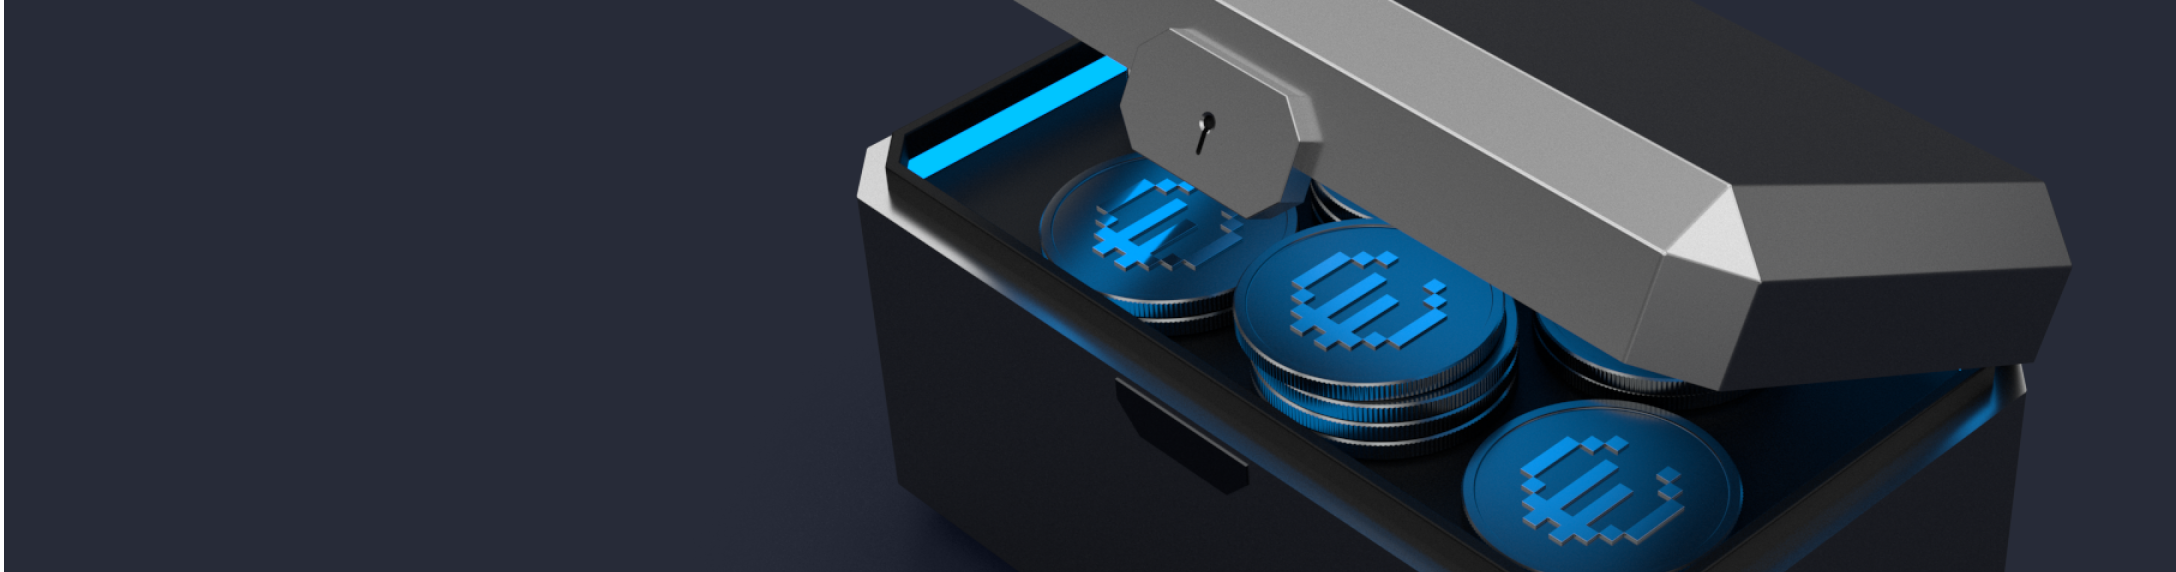
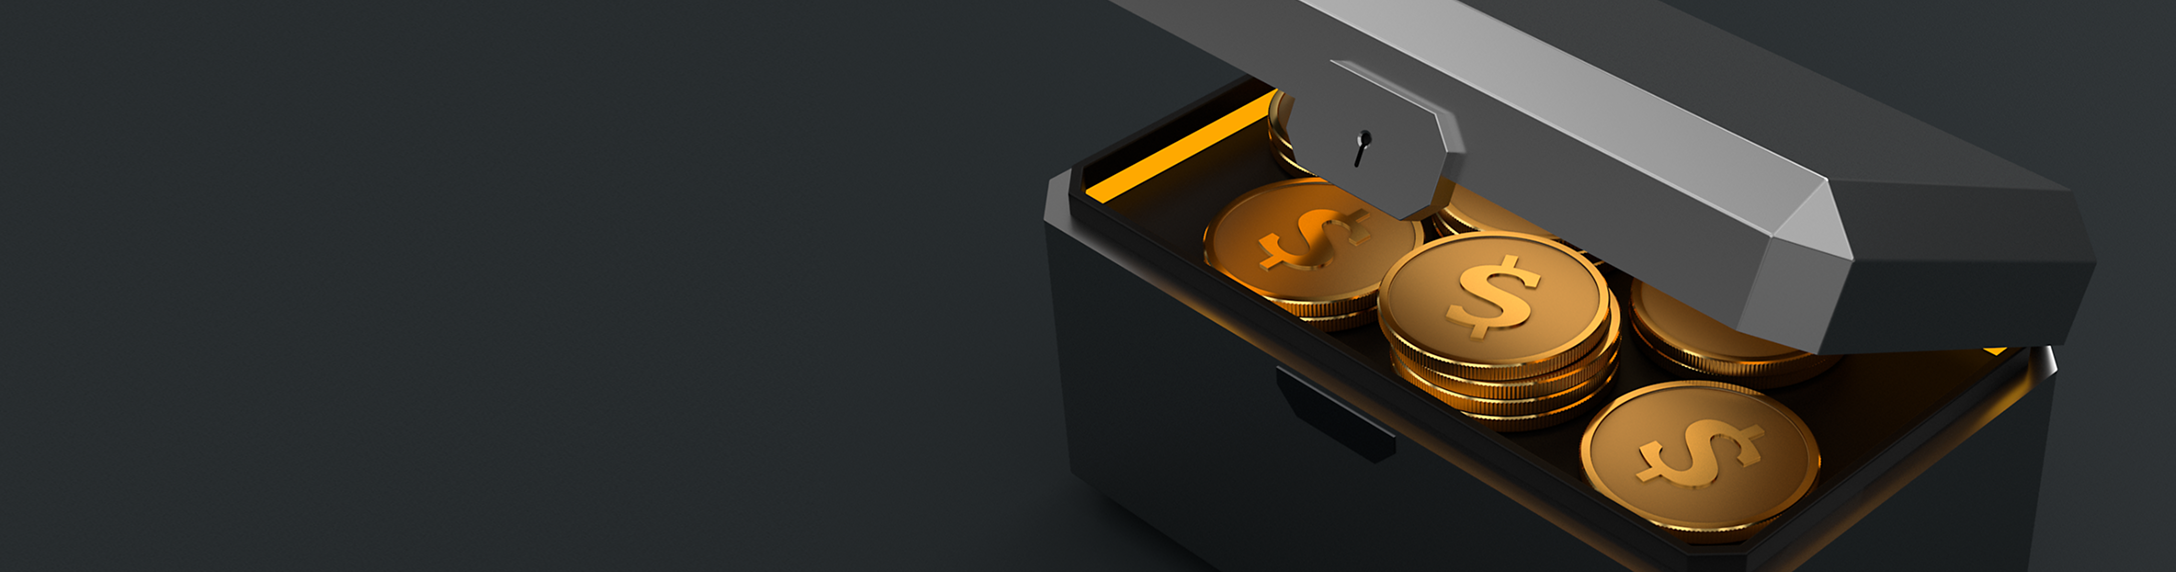
[NO-TASK] rebrand referral center UI (#6)

Changed region(s): [[0.375, 0.0, 0.9688, 1.0]]

diff --git a/tailwind.config.js b/tailwind.config.js
@@ -9,7 +9,7 @@ module.exports = {
 	],
 	theme: {
 		fontFamily: {
-			sans: ["Inter", "Helvetica", "ui-sans-serif"],
+			sans: ["Avenir", "Helvetica", "ui-sans-serif"],
 		},
 		screens: {
 			xs: "480px",
@@ -27,40 +27,27 @@ module.exports = {
 			minHeight: {
 				content: "calc(100vh - 230px)",
 			},
-			spacing: {
-				"spacing-10": "40px",
-			},
 			transitionProperty: {
 				height: "height",
 			},
 			colors: {
-				gray: {
-					"palette-75": "#6d6d6d",
-				},
-				neutral: {
-					"palette-n-78": "#656565",
-				},
 				layout: {
 					primary: "#f5f6f9",
-					secondary: "#092f62",
+					secondary: "#F57F00",
 					footer: "#272B38",
 				},
 				menu: {
 					default: {
-						text: "var(--Gray-palette-95, #272b37)",
-						bg: "transparent",
+						text: "#272b37",
+						bg: "#ffffff",
 					},
 					hover: {
-						text: "var(--Gray-palette-95, #272b37)",
-						bg: "var(--Gray-palette-5, #F6F6F6)",
+						text: "#1d2029",
+						bg: "#f5f6f9",
 					},
 					active: {
-						text: "var(--Neutral-palette-n100, #131313)",
-						bg: "var(--Gray-palette-5, #F6F6F6)",
-					},
-					disabled: {
-						text: "var(--Gray-palette-40, #b3b3b3)",
-						bg: "transparent",
+						text: "#1d2029",
+						bg: "#f0f1f5",
 					},
 					separator: "#e9ebf0",
 					back: "#FFFFFF",
@@ -73,7 +60,7 @@ module.exports = {
 				card: {
 					body: {
 						primary: "#ffffff",
-						secondary: "#092f62",
+						secondary: "#F57F00",
 						seperator: "#1e293b",
 					},
 					content: {
@@ -99,61 +86,61 @@ module.exports = {
 					label: "#5c637b",
 					title: "#43495c",
 					disabled: "#5d647b",
-					labelButton: "#065DC1",
+					labelButton: "#F57F00",
 				},
 				borders: {
 					primary: '#e9ebf0',
 					secondary: '#ced0da',
 					tertiary: '#8b91a7',
 					input: '#adb2c1',
-					focus: '#3d89f4',
+					focus: '#F57F00',
 					divider: '#1e293b',
 					dividerLight: '#eaebf0',
 				},
 				input: {
-					border: "#adb2c1",
-					placeholder: "#bdc1cd",
-					primary: "#1d2029",
+					border: "#B7B7B7",
+					placeholder: "#C5C5C5",
+					primary: "#131313",
 					label: "#adb2c1",
-					bg: "#f5f6f9",
-					borderFocus: "#3d89f4",
-					borderHover: "#5D647B",
-					bgNotEditable: "#F5F6F9",
+					bg: "#ffffff",
+					borderFocus: "#FFA33B",
+					borderHover: "#6D6D6D",
+					bgNotEditable: "#F6F6F6",
 				},
 				button: {
 					max: {
-						bg: "#e4f0fb",
-						text: "#092f62",
-						hover: "#CCE4FF",
-						disabledBg: "#E9EBF0",
-						disabledText: "#ADB2C2",
+						bg: "#FDF2E2",
+						text: "#FFA33B",
+						hover: "#FDF2E2",
+						disabledBg: "#ECECEC",
+						disabledText: "#C5C5C5",
 					},
 					primary: {
 						disabled: {
-							text: "var(--Gray-palette-40, #C5C5C5)",
-							bg: "var(--Gray-palette-10, #ECECEC)",
+							text: "#C5C5C5",
+							bg: "#ECECEC",
 						},
 						default: {
-							text: "var(--Gray-palette-White, #FFF)",
-							bg: "var(--Brand-colors-Citrus-orange, #F7911A)",
+							text: "#ffffff",
+							bg: "#F7911A",
 						},
 						hover: {
-							text: "var(--Gray-palette-White, #FFF)",
-							bg: "var(--Brand-colors-Juice-orange, #F57F00)",
+							text: "#ffffff",
+							bg: "#F57F00",
 						},
 					},
 					secondary: {
 						disabled: {
-							text: "var(--Gray-palette-40, #C5C5C5)",
-							bg: "var(--Gray-palette-5, #F6F6F6)",
+							text: "#ADB2C2",
+							bg: "##F5F6F9",
 						},
 						default: {
-							text: "var(--Gray-palette-90, #424242)",
-							bg: "var(--Gray-palette-7, #F1F1F1)",
+							text: "#272B38",
+							bg: "#F5F6F9",
 						},
 						hover: {
-							text: "var(--Gray-palette-90, #424242)",
-							bg: "var(--Gray-palette-15, #E7E7E7)",
+							text: "#272B38",
+							bg: "#EAEBF0",
 						},
 					},
 					text:{
@@ -161,7 +148,7 @@ module.exports = {
 							text: "#272B38",
 						},
 						hover: {
-							text: "#F7911A",
+							text: "#F57F00",
 						},
 						disabled: {
 							text: "#ADB2C2",
@@ -169,7 +156,7 @@ module.exports = {
 					},
 					textGroup: {
 						primary: {
-							text: "#065DC1",
+							text: "#F57F00",
 						},
 						secondary: {
 							text: "#8B92A8",
@@ -193,6 +180,9 @@ module.exports = {
 						secondary: "#F0F1F5",
 						hover: "#F0F1F5",
 					},
+				},
+				orangePalette: {
+					"pale-orange": "var(--Orange-palette-Pale-orange, #FDF2E2)",
 				},
 			},
 			boxShadow: {

diff --git a/styles/datepicker.css b/styles/datepicker.css
@@ -34,7 +34,7 @@
 .react-datepicker {
 	font-family: "Inter", system-ui, sans-serif;
 	font-size: 0.8rem;
-	background-color: rgb(55 65 81);
+	background-color: #505050;
 	color: #000;
 	border-radius: 0.3rem;
 	display: inline-block;
@@ -57,7 +57,7 @@
 }
 .react-datepicker__header {
 	text-align: center;
-	background-color: rgb(31 41 55);
+	background-color: #2d2d2d;
 	border-bottom: 1px solid #aeaeae;
 	border-top-left-radius: 0.3rem;
 	padding: 8px 0;
@@ -186,6 +186,7 @@
 .react-datepicker__month {
 	margin: 0.4rem;
 	text-align: center;
+	background-color: #505050;
 }
 .react-datepicker__month .react-datepicker__month-text,
 .react-datepicker__month .react-datepicker__quarter-text {
@@ -383,7 +384,7 @@
 .react-datepicker__quarter-text:hover,
 .react-datepicker__year-text:hover {
 	border-radius: 0.3rem;
-	background-color: rgb(75 85 99);
+	background-color: #6d6d6d;
 }
 .react-datepicker__day--today,
 .react-datepicker__month-text--today,
@@ -469,7 +470,7 @@
 .react-datepicker__year-text--in-selecting-range,
 .react-datepicker__year-text--in-range {
 	border-radius: 0.3rem;
-	background-color: #216ba5;
+	background-color: #F57F00;
 	color: #fff;
 }
 .react-datepicker__day--selected:hover,
@@ -484,7 +485,7 @@
 .react-datepicker__year-text--selected:hover,
 .react-datepicker__year-text--in-selecting-range:hover,
 .react-datepicker__year-text--in-range:hover {
-	background-color: #1d5d90;
+	background-color: #6D6D6D;
 }
 .react-datepicker__day--keyboard-selected,
 .react-datepicker__month-text--keyboard-selected,
@@ -498,7 +499,7 @@
 .react-datepicker__month-text--keyboard-selected:hover,
 .react-datepicker__quarter-text--keyboard-selected:hover,
 .react-datepicker__year-text--keyboard-selected:hover {
-	background-color: #1d5d90;
+	background-color: #6D6D6D;
 }
 .react-datepicker__day--in-selecting-range:not(
 		.react-datepicker__day--in-range,

diff --git a/components/PageReferrals/ReferralCenterSection.tsx b/components/PageReferrals/ReferralCenterSection.tsx
@@ -5,8 +5,8 @@ import { ReferralsStats } from "./ReferralsStats";
 
 const ExplanationItem = ({ icon, title, description }: { icon: string; title: string; description: string }) => (
 	<div className="max-w-[28rem] justify-start items-start gap-3 flex">
-		<div className="w-10 h-10 bg-[#f2f7fd] rounded-full flex justify-center items-center">
-			<Image src={icon} width={20} height={20} alt={title} />
+		<div className="w-10 h-10 bg-orangePalette-pale-orange rounded-full flex justify-center items-center">
+			<Image src={icon} width={28} height={28} alt={title} className="w-6 h-6 sm:w-7 sm:h-7" />
 		</div>
 		<div className="grow shrink basis-0 flex-col justify-center items-start">
 			<div className="self-stretch text-base font-extrabold leading-tight">{title}</div>
@@ -26,7 +26,7 @@ export const ReferralCenterSection = () => {
 					<div className="self-stretch flex-col justify-start items-start gap-5 inline-flex sm:w-1/2">
 						<div className="flex-col justify-start items-start gap-3 flex">
 							<div className="w-8 h-8 sm:w-11 sm:h-11 bg-borders-primary rounded-full flex justify-center items-center">
-								<Image src="/icons/chest.svg" width={28} height={28} alt="Chest" className="w-5 h-5 sm:w-6 sm:h-6" />
+							  <Image src="/icons/chest.svg" width={42} height={42} alt="Chest" />
 							</div>
 							<div className="text-text-primary text-2xl sm:text-4xl font-black !leading-none">
 								{t("referrals.referral_center")}

diff --git a/components/Input/TextInputOutlined.tsx b/components/Input/TextInputOutlined.tsx
@@ -12,7 +12,7 @@ export const TextInputOutlined = ({ className, placeholder, value, onChange }: T
 
 	return (
 		<div
-			className={`p-2 px-3 sm:p-3 rounded-lg border-1 border-transparent relative flex-col justify-center items-start gap-2 flex before:absolute before:inset-0 before:rounded-xl before:border before:pointer-events-none before:transition-colors before:duration-200 ${
+		    className={`p-2 px-3 sm:p-3 rounded-lg border-1 border-transparent relative flex-col justify-center items-start gap-2 flex before:absolute before:inset-0 before:rounded-xl before:border before:pointer-events-none before:transition-colors before:duration-200 ${
 				isFocused ? "before:border-2 before:border-input-borderFocus" : "before:border-input-border hover:before:border-input-borderHover"
 			} ${className}`}
 		>

diff --git a/components/PageSavings/SavingsInteractionSection.tsx b/components/PageSavings/SavingsInteractionSection.tsx
@@ -229,7 +229,7 @@ export default function SavingsInteractionSection() {
 		<>
 			<div className="w-full self-stretch justify-center items-center gap-1.5 inline-flex flex-col">
 				<div className="text-text-title text-center text-lg sm:text-xl font-black ">{t("savings.earn_yield_on_your_d_euro")}</div>
-				<div className="py-1 px-3 rounded-lg bg-[#E4F0FC] text-[#272B38] flex flex-row items-center gap-x-2 text-sm leading-[0.875rem]">
+				<div className="py-1 px-3 rounded-lg bg-[#FDF2E2] text-[#272B38] flex flex-row items-center gap-x-2 text-sm leading-[0.875rem]">
 					<span className="font-[400]">{t("savings.savings_rate")} (APR)</span>
 					<span className="font-extrabold">{rate !== undefined ? `${rate / 10_000}%` : "-"}</span>
 				</div>

diff --git a/components/PageEquity/EquityNativePoolShareDetailsCard.tsx b/components/PageEquity/EquityNativePoolShareDetailsCard.tsx
@@ -77,7 +77,7 @@ export default function EquityNativePoolShareDetailsCard() {
 						options={{
 							theme: {
 								monochrome: {
-									color: "#0D4E9C",
+									color: "#F57F00",
 									enabled: true,
 								},
 							},
@@ -123,13 +123,13 @@ export default function EquityNativePoolShareDetailsCard() {
 								max: maxPrice * 2,
 							},
 							fill: {
-								colors: ["#0F80F099"],
+								colors: ["#F57F0099"],
 								type: "gradient",
 								gradient: {
 									type: "vertical",
 									opacityFrom: 1,
 									opacityTo: 0.95,
-									gradientToColors: ["#F5F6F9"],
+									gradientToColors: ["#FDF2E2"],
 								},
 							},
 						}}

diff --git a/pages/referrals.tsx b/pages/referrals.tsx
@@ -7,6 +7,7 @@ import BonusHistoryTable from "@components/PageReferrals/BonusHistoryTable";
 import { useTranslation } from "next-i18next";
 import { serverSideTranslations } from "next-i18next/serverSideTranslations";
 import Leaderboard from "@components/PageReferrals/Leaderboard";
+import { TOKEN_SYMBOL } from "@utils";
 
 export default function Referrals() {
 	const { t } = useTranslation();
@@ -21,7 +22,7 @@ export default function Referrals() {
 	return (
 		<>
 			<Head>
-				<title>dEURO - {t("referrals.referrals")}</title>
+				<title>{TOKEN_SYMBOL} - {t("referrals.referrals")}</title>
 			</Head>
 
 			<div className="md:mt-8 flex flex-col gap-6 sm:gap-12">

diff --git a/components/PageSavings/SavingsHistoryCard.tsx b/components/PageSavings/SavingsHistoryCard.tsx
@@ -90,7 +90,7 @@ export default function SavingsHistoryCard() {
 						options={{
 							theme: {
 								monochrome: {
-									color: "#0D4E9C",
+									color: "#F57F00",
 									enabled: true,
 								},
 							},
@@ -136,13 +136,13 @@ export default function SavingsHistoryCard() {
 								max: maxPrice * 2,
 							},
 							fill: {
-								colors: ["#0F80F099"],
+								colors: ["#F57F0099"],
 								type: "gradient",
 								gradient: {
 									type: "vertical",
 									opacityFrom: 1,
 									opacityTo: 0.95,
-									gradientToColors: ["#F5F6F9"],
+									gradientToColors: ["#FDF2E2"],
 								},
 							},
 						}}

diff --git a/components/Navbar/index.tsx b/components/Navbar/index.tsx
@@ -43,7 +43,7 @@ export default function Navbar() {
 	return (
 		<div className="fixed top-0 left-0 right-0 z-20 bg-white border-b border-menu-separator bg-menu-back backdrop-blur">
 			<div className="flex justify-center">
-				<header className="flex w-full max-w-[1440px] h-16 px-spacing-10 justify-between items-center shrink-0">
+				<header className="flex w-full max-w-[1440px] px-5 h-16 px-spacing-10 justify-between items-center shrink-0">
 					<div className="h-9 justify-start items-center gap-6 inline-flex">
 						<Link className="w-[120px] flex items-center justify-center" href={CONFIG.landing}>
 							<div className="relative">

diff --git a/components/PageMint/CollateralManageSection.tsx b/components/PageMint/CollateralManageSection.tsx
@@ -338,7 +338,7 @@ export const CollateralManageSection = () => {
 					/>
 					{error && <div className="ml-1 text-text-warning text-sm">{error}</div>}
 				</div>
-				<div className="w-full mt-1.5 px-4 py-2 rounded-xl bg-[#E4F0FC] flex flex-row justify-between items-center text-base font-extrabold text-[#272B38]">
+				<div className="w-full mt-1.5 px-4 py-2 rounded-xl bg-[#FDF2E2] flex flex-row justify-between items-center text-base font-extrabold text-[#272B38]">
 					<span>{t("mint.collateralization")}</span>
 					<span>{collateralizationPercentage} %</span>
 				</div>

diff --git a/components/PageMint/BorrowedManageSection.tsx b/components/PageMint/BorrowedManageSection.tsx
@@ -376,7 +376,7 @@ export const BorrowedManageSection = () => {
 					/>
 					{error && <div className="ml-1 text-text-warning text-sm">{error}</div>}
 				</div>
-				<div className="w-full mt-1.5 px-4 py-2 rounded-xl bg-[#E4F0FC] flex flex-row justify-between items-center text-base font-extrabold text-[#272B38]">
+				<div className="w-full mt-1.5 px-4 py-2 rounded-xl bg-[#FDF2E2] flex flex-row justify-between items-center text-base font-extrabold text-[#272B38]">
 					<span>{t("mint.collateralization")}</span>
 					<span>{collateralizationPercentage} %</span>
 				</div>

diff --git a/components/PageReferrals/ReferralCreationForm.tsx b/components/PageReferrals/ReferralCreationForm.tsx
@@ -55,9 +55,10 @@ export const CopyLinkButton = ({ text, contentOnCopy }: { text: string; contentO
 	return (
 		<div className="flex w-full sm:w-[80%] min-w-fit">
 			<Button
+				width="w-auto"
 				onClick={copyReferralLink}
 				className={`!px-4 !py-2.5 ${
-					isCopied ? "bg-[#0d3e7c]" : "bg-borders-primary"
+					isCopied ? "bg-button-primary-default-bg" : "bg-borders-primary"
 				} rounded-lg justify-between items-center inline-flex overflow-hidden`}
 			>
 				<span className="basis-0 text-white text-sm sm:text-base font-extrabold leading-normal">
